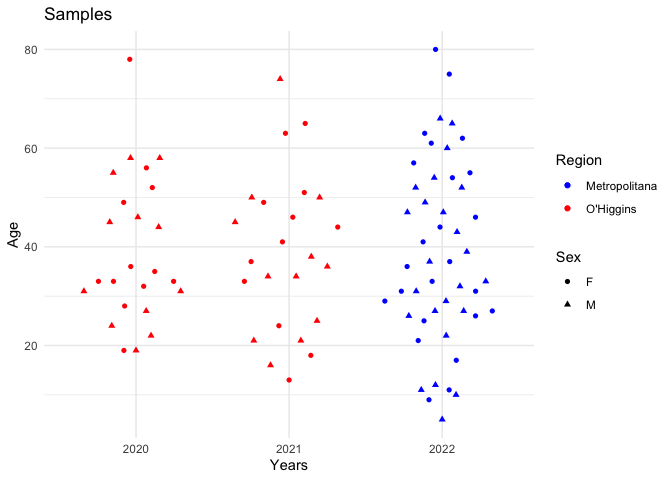
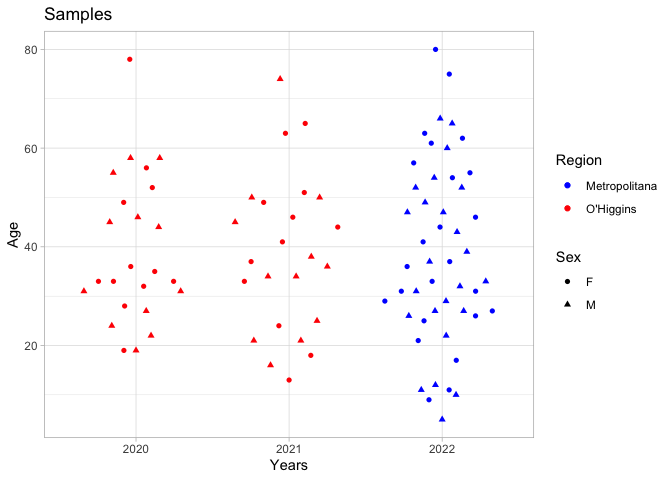
Adding plots

Changed region(s): [[0.0625, 0.0625, 0.0938, 0.0938]]

diff --git a/code/covid_tidy/Covid_Tidy.md b/code/covid_tidy/Covid_Tidy.md
@@ -1,7 +1,7 @@
 Tidyverse_COVID_Example
 ================
 Alex Di Genova
-2024-06-06
+2024-06-11
 
 ## COVID 19 data analysis
 
@@ -32,7 +32,7 @@ p1=ggplot(data = chile_map) +
   geom_point(data = locations, aes(x = lon, y = lat, color = city, shape=city), size = 3) +
   scale_color_manual(values = c("Santiago" = "blue", "Rancagua" = "red")) +
   ggtitle("Chile") +
-  theme_classic() +
+  theme_light() +
   theme(text = element_text(size = 12), legend.position = "none",  axis.text.x=element_blank()) +
   labs(color = "Ciudad")
 p1
@@ -62,24 +62,63 @@ df=df %>% separate(Date, into=c("m","d","y")) %>% mutate(Ct=as.integer(Ct))
 
 p2=df %>% ggplot(aes(x=y,y=Age,color=Region,shape=Sex)) + geom_quasirandom() +
 scale_color_manual(values = c("Metropolitana" = "blue", "O'Higgins" = "red")) + labs(x="Years",y="Age",title="Samples")+
-  theme_minimal()
+  theme_light()
 p2
 ```
 
 ![](Covid_Tidy_files/figure-gfm/democovid-1.png)<!-- -->
 
+``` r
+p3=df %>% ggplot(aes(x=Age,y=Ct,color=Sex,group=Region)) + 
+  geom_point() +
+  geom_smooth(method="lm")+
+  geom_hline(yintercept = 28,linetype = 2) +
+  facet_wrap(.~Region)+
+  labs(title="Ct vs Age",x="Edad",y="Ct") +
+  theme_light()
+```
+
 We merge plot1 and plot2
 
 ``` r
 library(patchwork)
-(p1|p2) + plot_annotation(tag_levels = 'A')
+(p1|p2/p3) + plot_annotation(tag_levels = 'A')
 ```
+
+    ## `geom_smooth()` using formula = 'y ~ x'
+
+    ## Warning: The following aesthetics were dropped during statistical transformation: colour
+    ## ℹ This can happen when ggplot fails to infer the correct grouping structure in
+    ##   the data.
+    ## ℹ Did you forget to specify a `group` aesthetic or to convert a numerical
+    ##   variable into a factor?
+    ## The following aesthetics were dropped during statistical transformation: colour
+    ## ℹ This can happen when ggplot fails to infer the correct grouping structure in
+    ##   the data.
+    ## ℹ Did you forget to specify a `group` aesthetic or to convert a numerical
+    ##   variable into a factor?
 
 ![](Covid_Tidy_files/figure-gfm/mergedplots-1.png)<!-- -->
 
 ``` r
 pdf("Fig1.pdf",5,3)
-(p1|p2) + plot_annotation(tag_levels = 'A')
+(p1|p2|p3) + plot_annotation(tag_levels = 'A')
+```
+
+    ## `geom_smooth()` using formula = 'y ~ x'
+
+    ## Warning: The following aesthetics were dropped during statistical transformation: colour
+    ## ℹ This can happen when ggplot fails to infer the correct grouping structure in
+    ##   the data.
+    ## ℹ Did you forget to specify a `group` aesthetic or to convert a numerical
+    ##   variable into a factor?
+    ## The following aesthetics were dropped during statistical transformation: colour
+    ## ℹ This can happen when ggplot fails to infer the correct grouping structure in
+    ##   the data.
+    ## ℹ Did you forget to specify a `group` aesthetic or to convert a numerical
+    ##   variable into a factor?
+
+``` r
 dev.off()
 ```
 
